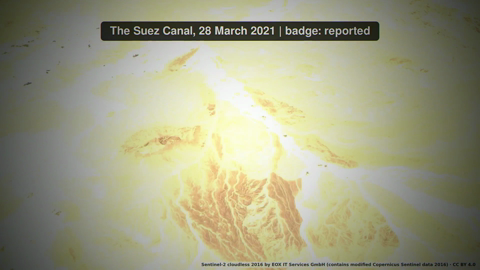
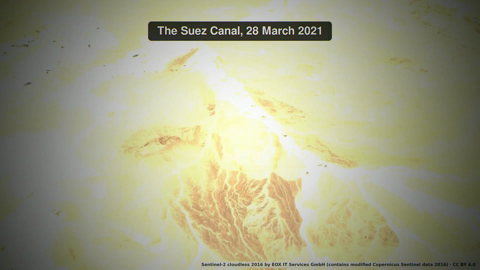
Suez sample: mixed-media pass (Archetype C), pre-show list and SFX log of the 1-minute cut
Claude-Session: https://claude.ai/code/session_017xrBtfYjuM4LWtQjRrahAL

Changed region(s): [[0.1875, 0.0593, 0.8125, 0.1778]]

diff --git a/creatorforge/films/suez-sample/PRESHOW.md b/creatorforge/films/suez-sample/PRESHOW.md
@@ -1,0 +1,65 @@
+# Before you watch: One ship, six days
+
+Read this with the video. It lists what still breaks or bends your rules, what is a stand-in and what is missing.
+
+## Rules
+
+- **Gate 1, No pick, no script:** passed
+- **Gate 2, Seen means used:** passed
+- **Gate 3, Evidence first:** passed
+- **Gate 4, Pacing:** passed
+
+## Against what was asked
+
+- Length: 59.2s against 60s asked
+- Language: en; channel: print-facts
+- Episode Visual Theme: Archetype D: Swiss Data / Modern Tech
+- Voice: bm_daniel (a stand-in, not the owner's ElevenLabs voice)
+
+## Stand-ins and gaps
+
+- none found
+
+## Warnings from the studio's own checks
+
+- editorial S2: 8 on-screen words need about 3s to read; the line lasts about 3s
+- editorial S7: 12 on-screen words need about 4s to read; the line lasts about 4s
+- editorial S13: 12 on-screen words need about 4s to read; the line lasts about 2s
+- variation variation: palette hue 15° is 75° from an earlier film's (300°); with three films spread round the wheel 120° from all is not always possible
+- variation variation: palette hue 15° is 75° from an earlier film's (90°); with three films spread round the wheel 120° from all is not always possible
+- quality: a cut lands 0.43s away from its line
+- retention: weakest shot S7
+
+## Shot by shot
+
+| Shot | Time | Hold | Kind | Role |
+|---|---|---|---|---|
+| S1 | 0.0-4.2s | 4.2s | fly | builds |
+| S2 | 4.2-6.8s | 2.6s | photo | evidence |
+| S3 | 6.8-10.6s | 3.8s | title3d | still |
+| S4 | 10.6-14.1s | 3.5s | photo | evidence |
+| S5 | 14.1-19.9s | 5.8s | photos | evidence |
+| S6 | 19.9-24.5s | 4.6s | towers3d | explains |
+| S7 | 24.5-27.9s | 3.4s | explode | explains |
+| S8 | 27.9-31.7s | 3.7s | route | explains |
+| S9 | 31.7-38.3s | 6.6s | flowmap | explains |
+| S10 | 38.3-42.6s | 4.3s | counter | explains |
+| S11 | 42.6-47.7s | 5.1s | route | explains |
+| S12 | 47.7-53.3s | 5.6s | bignumber | explains |
+| S13 | 53.3-55.9s | 2.6s | calendar | builds |
+| S14 | 55.9-58.7s | 2.8s | statement | still |
+
+Sound: SFX_LOG.md (next to this file) has every foley, room-tone and music cue with its time and level.
+
+## Brain Log rules to check by eye
+
+- The two channels
+- No video until "go"
+- Scam script v1 review (Dragon Psychology)
+- The showrunner directive
+- Simplify CreatorForge
+- No mascot
+- Evolution sample in Hindi
+- English, and no images without asking
+- Use judgment, not the nearest template
+- Samples that look like the last ones

diff --git a/creatorforge/films/suez-sample/SFX_LOG.md b/creatorforge/films/suez-sample/SFX_LOG.md
@@ -1,0 +1,32 @@
+# SFX log: One ship, six days
+
+Timecode is mm:ss:ff at 24 fps. Levels are relative to full scale before the final -14 LUFS loudness pass.
+
+| Time | Scene | Layer | Cue | Level | Treatment |
+|---|---|---|---|---|---|
+| 00:00:00 | all | Room tone | stereo room bed | -35 dB | -35 dB under the whole film |
+| 00:00:00 | S1 | Music | unease | - | score: pulse |
+| 00:03:18 | S1 | Foley | whoosh_low | -5 dB | low-passed 800 Hz, 2 frames before the cut |
+| 00:04:05 | S2 | Music | inquiry | - | score: pulse |
+| 00:05:04 | S2 | Foley | riser_tension | -8 dB | low-passed 800 Hz, 2 frames before the cut |
+| 00:06:13 | S2 | Foley | whoosh_paper | -5 dB | low-passed 800 Hz, 2 frames before the cut |
+| 00:06:17 | S2 | Ambience | hum | -20 dB | the place's own sound, under the voice |
+| 00:10:03 | S3 | Foley | whoosh_low | -5 dB | low-passed 800 Hz, 2 frames before the cut |
+| 00:13:13 | S4 | Foley | whoosh_air | -5 dB | low-passed 800 Hz, 2 frames before the cut |
+| 00:19:10 | S5 | Foley | whoosh_low | -5 dB | low-passed 800 Hz, 2 frames before the cut |
+| 00:19:19 | S5 | Ambience | hum | -20 dB | the place's own sound, under the voice |
+| 00:22:21 | S6 | Foley | riser_tension | -8 dB | low-passed 800 Hz, 2 frames before the cut |
+| 00:23:23 | S6 | Foley | whoosh_air | -5 dB | low-passed 800 Hz, 2 frames before the cut |
+| 00:27:15 | S7 | Foley | whoosh_paper | -5 dB | low-passed 800 Hz, 2 frames before the cut |
+| 00:27:20 | S7 | Ambience | sea | -16 dB | the place's own sound, under the voice |
+| 00:27:22 | S8 | Music | revelation | - | score: pulse |
+| 00:31:03 | S8 | Foley | whoosh_air | -5 dB | low-passed 800 Hz, 2 frames before the cut |
+| 00:38:06 | S10 | Foley | impact_punch | -4 dB | low-passed 800 Hz, 2 frames before the cut |
+| 00:38:07 | S10 | Music | loss | - | score: pulse |
+| 00:42:05 | S10 | Foley | whoosh_low | -5 dB | low-passed 800 Hz, 2 frames before the cut |
+| 00:42:13 | S10 | Ambience | sea | -16 dB | the place's own sound, under the voice |
+| 00:46:02 | S11 | Foley | riser_tension | -8 dB | low-passed 800 Hz, 2 frames before the cut |
+| 00:47:10 | S11 | Foley | whoosh_paper | -5 dB | low-passed 800 Hz, 2 frames before the cut |
+| 00:52:19 | S12 | Foley | whoosh_air | -5 dB | low-passed 800 Hz, 2 frames before the cut |
+| 00:53:08 | S13 | Music | resolve | - | score: pulse |
+| 00:55:21 | S14 | Foley | impact_deep | -4 dB | low-passed 800 Hz, 2 frames before the cut |
